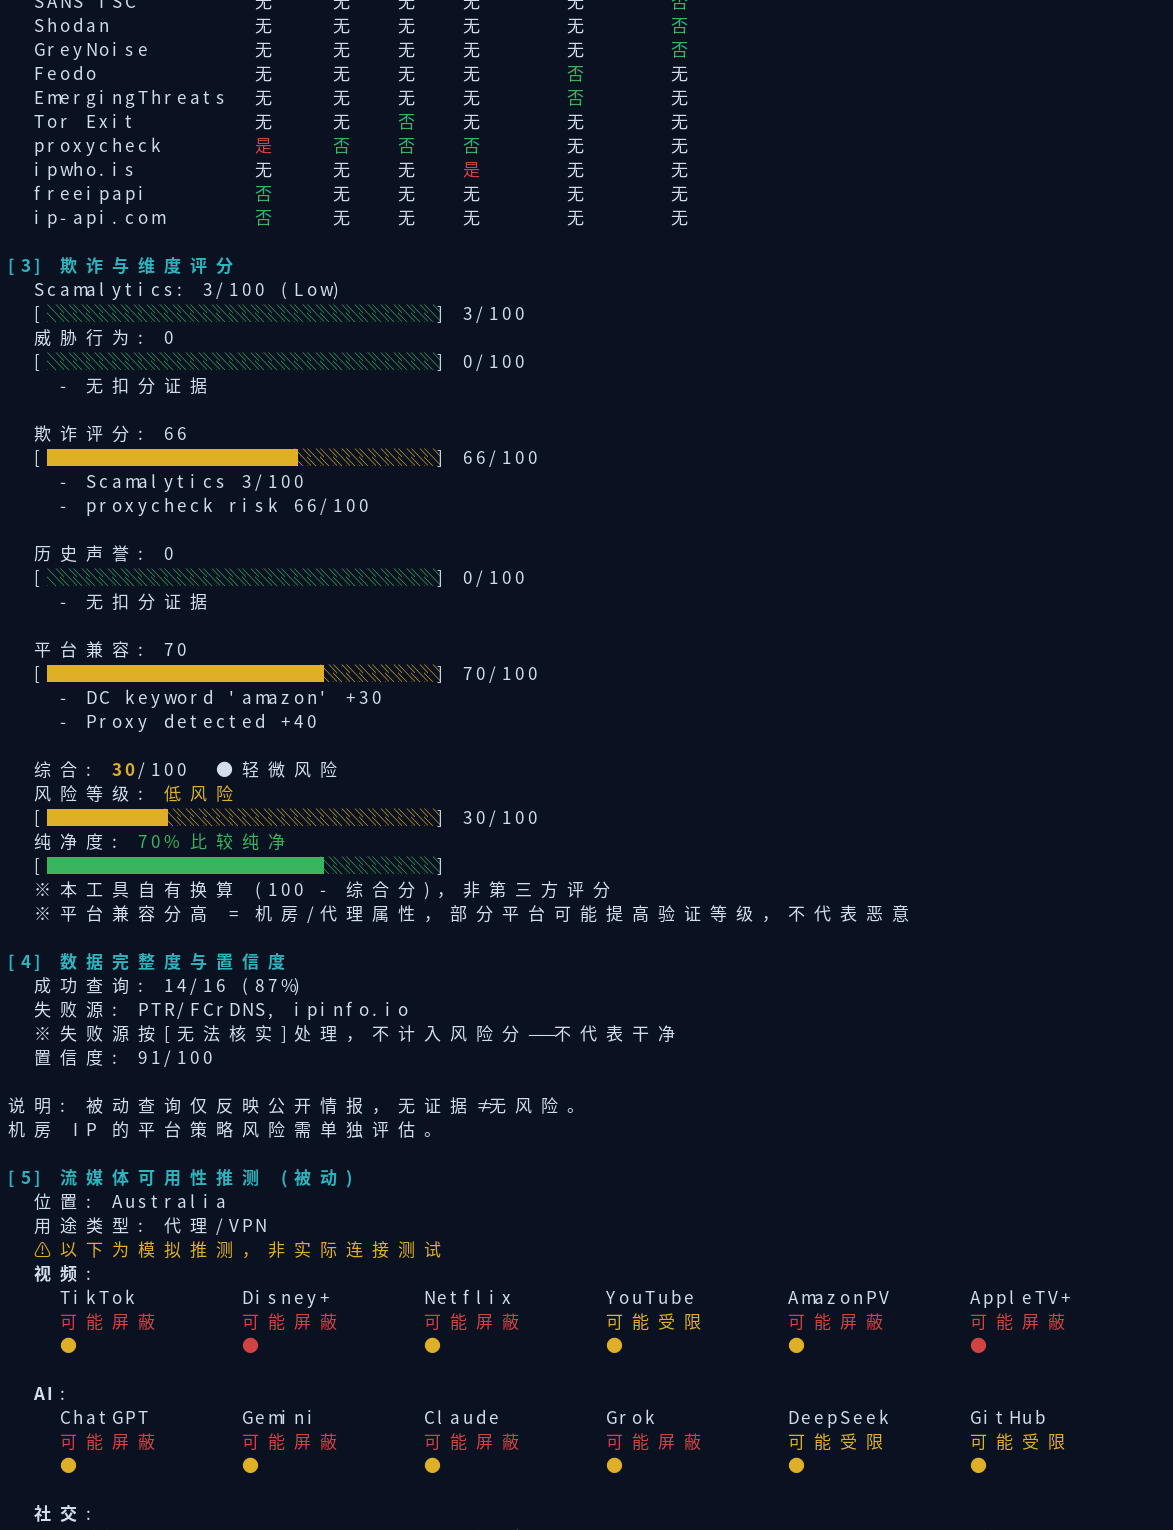
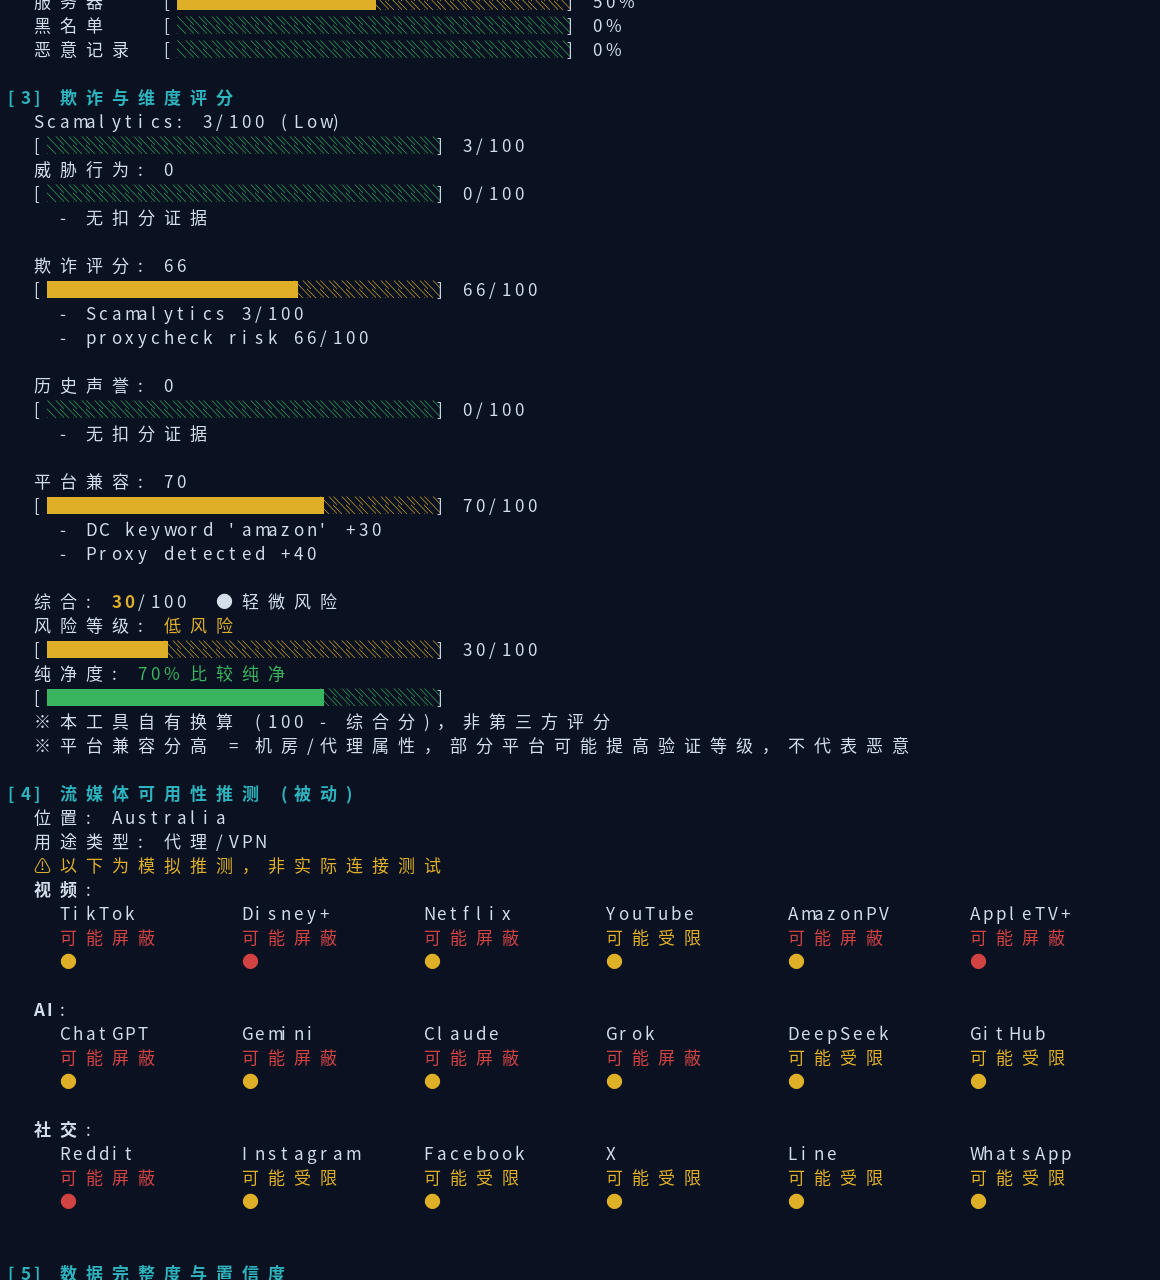
update

diff --git a/acheck.py b/acheck.py
@@ -1,6 +1,6 @@
 #!/usr/bin/env python3
 """
-IP 信誉检测 v4.9.0 — 全量修复与并发优化公开版 (零 API Key 依赖)
+IP 信誉检测 v4.10.0 — 全量修复与并发优化公开版 (零 API Key 依赖)
 
 被动模式: 仅凭 IP 地址做公开情报查询，不发起任何指向该 IP 的主动连接。
   适用: 评估尚未启用的候选 IP (如 AWS EIP)。
@@ -55,7 +55,7 @@ for _s in (sys.stdout, sys.stderr, sys.stdin):
     except Exception:
         pass
 
-VERSION = "4.9.0"
+VERSION = "4.10.0"
 
 
 def _init_console():
@@ -1956,7 +1956,7 @@ class IPInfo(Provider):
 
     def check(self, ip):
         ok, raw = http_get(f"https://ipinfo.io/{ip}/json",
-                           headers={"User-Agent": "A-Check/4.9.0 (+https://github.com/alariclin/A-Check)"},
+                           headers={"User-Agent": "A-Check/4.10.0 (+https://github.com/alariclin/A-Check)"},
                            use_cache=False)
         if not ok:
             return {"ok": False, "err": raw}
@@ -2287,7 +2287,7 @@ def _build_unified_profile(s):
 
 SCORING_RULES = {
     "zh": """
-评分规则 (v4.9.0 免 Key 公开版):
+评分规则 (v4.10.0 免 Key 公开版):
   [威胁行为 0-100] 实际恶意行为证据
     StopForumSpam 垃圾举报命中 (每次+3, 上限25)
     SANS ISC 蜜罐攻击记录 (5 + count//5, 上限25)
@@ -2309,7 +2309,7 @@ SCORING_RULES = {
   [纯净度] = 100 - 综合 (本工具自有换算，非第三方评分)
 """,
     "zh-TW": """
-評分規則 (v4.9.0 免 Key 公開版):
+評分規則 (v4.10.0 免 Key 公開版):
   [威脅行為 0-100] 實際惡意行為證據
     StopForumSpam 垃圾舉報命中 (每次+3, 上限25)
     SANS ISC 蜜罐攻擊記錄 (5 + count//5, 上限25)
@@ -2331,7 +2331,7 @@ SCORING_RULES = {
   [純淨度] = 100 - 綜合 (本工具自有換算，非第三方評分)
 """,
     "en": """
-Scoring rules (v4.9.0 Keyless Public Edition):
+Scoring rules (v4.10.0 Keyless Public Edition):
   [Threat 0-100] Evidence of malicious behavior
     StopForumSpam abuse hits (+3 each, max 25)
     SANS ISC honeypot attacks (5 + count//5, max 25)
@@ -2353,7 +2353,7 @@ Scoring rules (v4.9.0 Keyless Public Edition):
   [Purity] = 100 - Combined (own conversion, not third-party)
 """,
     "ja": """
-スコアリングルール (v4.9.0 キー不要公開版):
+スコアリングルール (v4.10.0 キー不要公開版):
   [脅威行為 0-100] 悪意ある活動の証拠
     StopForumSpam スパム報告 (+3/件, 最大25)
     SANS ISC ハニーポット攻撃記録 (5 + count//5, 最大25)
@@ -2375,7 +2375,7 @@ Scoring rules (v4.9.0 Keyless Public Edition):
   [純度] = 100 - 総合 (独自換算)
 """,
     "ru": """
-Правила оценки (v4.9.0 Публичная версия без ключей):
+Правила оценки (v4.10.0 Публичная версия без ключей):
   [Угрозы 0-100] Доказательства вредоносной активности
     StopForumSpam жалобы (+3 за каждую, макс. 25)
     SANS ISC атаки (5 + count//5, макс. 25)
@@ -2397,7 +2397,7 @@ Scoring rules (v4.9.0 Keyless Public Edition):
   [Чистота] = 100 - Итого
 """,
     "fa": """
-قوانین امتیازدهی (نسخه عمومی بدون کلید v4.9.0):
+قوانین امتیازدهی (نسخه عمومی بدون کلید v4.10.0):
   [رفتار تهدید 0-100] شواهد فعالیت مخرب
     StopForumSpam گزارش اسپم (+3 هر مورد، حداکثر 25)
     SANS ISC حملات ثبتشده (5 + count//5، حداکثر 25)
@@ -3155,15 +3155,18 @@ def print_report(res, include_streaming_inference=True, sysinfo=None,
         _ind = " " * (_disp_width(_lbl) + 2)
         for _i, k in enumerate(_order):
             _loc, _names = _groups[k]
-            _who = ", ".join(_names)
             if _i == 0:
-                print(f"  {_lbl}: {_loc} ({_who})")
+                print(f"  {_lbl}: {_loc}")
             else:
-                print(f"  {_ind}{_loc} ({_who})")
+                print(f"  {_ind}{_loc}")
     else:
         print(f"  {T('no_loc_data')}")
     if pc.get("ok") and pc.get("range"):
         print(f"  {T('ip_range')}: {pc['range']}")
+
+    # 系统信息 (主动模式: 并入 [1], 位于 IP 类型属性之前)
+    if sysinfo:
+        print_system_info(sysinfo[0], sysinfo[1])
 
     # [1.5] 类型属性 (严禁篡改第三方原始判断)
     _section(T("sec_type"))
@@ -3197,10 +3200,6 @@ def print_report(res, include_streaming_inference=True, sysinfo=None,
         print("  " + _pad(T("usage_type"), 12) + "".join(cells))
     else:
         print(f"  {T('no_type_data')}")
-
-    # 系统信息 (主动模式: 并入 [1] 组尾, print_system_info 自带小标题)
-    if sysinfo:
-        print_system_info(sysinfo[0], sysinfo[1])
 
     # [2] 风险因子矩阵 (威胁情报与因子矩阵融合: 源为行, 因子为列, 细节作脚注)
     _section(T("sec_matrix"))
@@ -3274,39 +3273,17 @@ def print_report(res, include_streaming_inference=True, sysinfo=None,
             _hit(ia, bool(ia.get("proxy"))),
             _NA, _NA, _NA, _NA, _NA]),
     ]
+    # 按因子聚合为进度条: 占比 = 判「是」源数 / 有判定源数 (未覆盖/失败不计入)
     _factors = [T("f_proxy"), T("f_vpn"), T("f_tor"), T("f_server"),
                 T("f_blacklist"), T("f_malicious")]
-    _name_w = max(_disp_width(n) for n, _ in _rows) + 2
-    _cw = max(_disp_width(T("yes")), _disp_width(T("no")),
-              _disp_width(T("none")), 1)
-    _col_ws = [max(_disp_width(h), _cw) + 2 for h in _factors]
-    print("  " + " " * _name_w + "".join(
-        _pad(h, w) for h, w in zip(_factors, _col_ws)))
-    for _n, _cells in _rows:
-        print("  " + _pad(_n, _name_w) + "".join(
-            _pad(_cell(c), w) for c, w in zip(_cells, _col_ws)))
-
-    # 细节脚注 (仅命中/有附加信息时出现, 干净 IP 不占行)
-    if sf.get("ok") and sf.get("frequency", 0) > 0:
-        print(f"  {_c(C.dim, 'StopForumSpam: %d hits' % sf['frequency'])}")
-    if us.get("ok") and us.get("total", 0) > 0:
-        print(f"  {_c(C.dim, 'urlscan.io: %d malicious records' % us['total'])}")
-    if sa.get("ok") and sa.get("attack_count"):
-        print(f"  {_c(C.dim, 'SANS ISC: %s attacks' % sa['attack_count'])}")
-    if sh.get("ok"):
-        if sh.get("vulns"):
-            print(f"  {_c(C.red, 'Shodan: %d vulns: %s' % (len(sh['vulns']), ','.join(sh['vulns'][:3])))}")
-        if sh.get("tags"):
-            print(f"  {_c(C.yellow, 'Shodan: tags %s' % ','.join(sh['tags'][:3]))}")
-        if sh.get("ports"):
-            print(f"  {_c(C.dim, 'Shodan ports: %s' % sh['ports'])}")
-    if gn.get("ok") and (gn.get("noise") or gn.get("classification")):
-        _bits = []
-        if gn.get("classification"):
-            _bits.append(gn["classification"])
-        if gn.get("noise"):
-            _bits.append("noise")
-        print(f"  {_c(C.dim, 'GreyNoise: %s' % ', '.join(_bits))}")
+    _lw = max(_disp_width(f) for f in _factors) + 2
+    for _ci, _fname in enumerate(_factors):
+        _decided = [c[_ci] for _, c in _rows if c[_ci] in (True, False)]
+        if _decided:
+            _pct = round(100 * sum(1 for v in _decided if v) / len(_decided))
+            print(f"  {_pad(_fname, _lw)}[{_risk_bar(_pct)[0]}] {_pct}%")
+        else:
+            print(f"  {_pad(_fname, _lw)}[{_risk_bar(0)[0]}] {_c(C.dim, '—')}")
 
     # [4] 欺诈与维度评分 (Scamalytics + 四维 + 综合)
     _section(T("sec_fraud"))
@@ -3390,7 +3367,7 @@ def get_egress_ip():
     ]
     for url in sources:
         try:
-            _ua = {"User-Agent": "A-Check/4.9.0 (+https://github.com/alariclin/A-Check)"} if "ipinfo.io" in url else {"User-Agent": UA_BROWSER}
+            _ua = {"User-Agent": "A-Check/4.10.0 (+https://github.com/alariclin/A-Check)"} if "ipinfo.io" in url else {"User-Agent": UA_BROWSER}
             req = urllib.request.Request(url, headers=_ua)
             with urllib.request.urlopen(req, timeout=6) as r:
                 raw = r.read(512).decode("utf-8", errors="replace").strip()

diff --git a/README.fa.md b/README.fa.md
@@ -5,7 +5,7 @@
 <p align="center">اعتبار IP · عیبیابی پروکسی · انتخاب دستهای گرهها — ابزار تکفایلی پایتون</p>
 
 <p align="center">
-  <img src="https://img.shields.io/badge/release-v4.9.0-1f883d" alt="release">
+  <img src="https://img.shields.io/badge/release-v4.10.0-1f883d" alt="release">
   <img src="https://img.shields.io/badge/python-3.8%2B-3776ab" alt="python">
   <img src="https://img.shields.io/badge/platform-macOS%20%7C%20Windows%20%7C%20Linux-8250df" alt="platform">
   <img src="https://img.shields.io/badge/license-MIT-d7781e" alt="license">
@@ -56,7 +56,7 @@ python3 acheck.py 8.8.8.8     # استعلام هر IP عمومی
 python3 acheck.py --active    # خودآزمایی
 ```
 
-بستههای macOS / Windows / Linux در صفحه [Releases](https://github.com/alariclin/A-Check/releases) هستند (`A-Check-v4.9.0-mac.zip` / `A-Check-v4.9.0-windows.zip` / `A-Check-v4.9.0-linux.zip`) — از حالت فشرده خارج کنید و `run.command` / `run.bat` / `run.sh` را اجرا کنید.
+بستههای macOS / Windows / Linux در صفحه [Releases](https://github.com/alariclin/A-Check/releases) هستند (`A-Check-v4.10.0-mac.zip` / `A-Check-v4.10.0-windows.zip` / `A-Check-v4.10.0-linux.zip`) — از حالت فشرده خارج کنید و `run.command` / `run.bat` / `run.sh` را اجرا کنید.
 
 ## روش استفاده
 

diff --git a/README.ru.md b/README.ru.md
@@ -5,7 +5,7 @@
 <p align="center">Репутация IP · диагностика прокси · пакетный выбор узлов — однофайловый чекер на Python</p>
 
 <p align="center">
-  <img src="https://img.shields.io/badge/release-v4.9.0-1f883d" alt="release">
+  <img src="https://img.shields.io/badge/release-v4.10.0-1f883d" alt="release">
   <img src="https://img.shields.io/badge/python-3.8%2B-3776ab" alt="python">
   <img src="https://img.shields.io/badge/platform-macOS%20%7C%20Windows%20%7C%20Linux-8250df" alt="platform">
   <img src="https://img.shields.io/badge/license-MIT-d7781e" alt="license">
@@ -56,7 +56,7 @@ python3 acheck.py 8.8.8.8     # запрос любого публичного I
 python3 acheck.py --active    # самопроверка
 ```
 
-Пакеты для macOS / Windows / Linux — на странице [Releases](https://github.com/alariclin/A-Check/releases) (`A-Check-v4.9.0-mac.zip` / `A-Check-v4.9.0-windows.zip` / `A-Check-v4.9.0-linux.zip`): распаковать и запустить `run.command` / `run.bat` / `run.sh`.
+Пакеты для macOS / Windows / Linux — на странице [Releases](https://github.com/alariclin/A-Check/releases) (`A-Check-v4.10.0-mac.zip` / `A-Check-v4.10.0-windows.zip` / `A-Check-v4.10.0-linux.zip`): распаковать и запустить `run.command` / `run.bat` / `run.sh`.
 
 ## Использование
 

diff --git a/README.ja.md b/README.ja.md
@@ -5,7 +5,7 @@
 <p align="center">IPレピュテーション · プロキシ診断 · ノード一括選別 — 単一ファイルのPythonチェッカー</p>
 
 <p align="center">
-  <img src="https://img.shields.io/badge/release-v4.9.0-1f883d" alt="release">
+  <img src="https://img.shields.io/badge/release-v4.10.0-1f883d" alt="release">
   <img src="https://img.shields.io/badge/python-3.8%2B-3776ab" alt="python">
   <img src="https://img.shields.io/badge/platform-macOS%20%7C%20Windows%20%7C%20Linux-8250df" alt="platform">
   <img src="https://img.shields.io/badge/license-MIT-d7781e" alt="license">
@@ -56,7 +56,7 @@ python3 acheck.py 8.8.8.8     # 任意のIPを照会
 python3 acheck.py --active    # セルフチェック
 ```
 
-macOS / Windows / Linux 用パッケージは [Releases](https://github.com/alariclin/A-Check/releases) ページ（`A-Check-v4.9.0-mac.zip` / `A-Check-v4.9.0-windows.zip` / `A-Check-v4.9.0-linux.zip`）から。解凍して `run.command` / `run.bat` / `run.sh` を実行してください。
+macOS / Windows / Linux 用パッケージは [Releases](https://github.com/alariclin/A-Check/releases) ページ（`A-Check-v4.10.0-mac.zip` / `A-Check-v4.10.0-windows.zip` / `A-Check-v4.10.0-linux.zip`）から。解凍して `run.command` / `run.bat` / `run.sh` を実行してください。
 
 ## 使い方
 

diff --git a/README.zh-TW.md b/README.zh-TW.md
@@ -5,7 +5,7 @@
 <p align="center">IP 純淨度 · 代理診斷 · 批量節點優選 — 純 Python 單文件檢測工具</p>
 
 <p align="center">
-  <img src="https://img.shields.io/badge/release-v4.9.0-1f883d" alt="release">
+  <img src="https://img.shields.io/badge/release-v4.10.0-1f883d" alt="release">
   <img src="https://img.shields.io/badge/python-3.8%2B-3776ab" alt="python">
   <img src="https://img.shields.io/badge/platform-macOS%20%7C%20Windows%20%7C%20Linux-8250df" alt="platform">
   <img src="https://img.shields.io/badge/license-MIT-d7781e" alt="license">
@@ -56,7 +56,7 @@ python3 acheck.py 8.8.8.8     # 查任意公網 IP
 python3 acheck.py --active    # 本機自檢
 ```
 
-macOS / Windows / Linux 安裝包在 [Releases](https://github.com/alariclin/A-Check/releases) 頁下載（`A-Check-v4.9.0-mac.zip` / `A-Check-v4.9.0-windows.zip` / `A-Check-v4.9.0-linux.zip`），解壓後運行 `run.command` / `run.bat` / `run.sh` 即可。
+macOS / Windows / Linux 安裝包在 [Releases](https://github.com/alariclin/A-Check/releases) 頁下載（`A-Check-v4.10.0-mac.zip` / `A-Check-v4.10.0-windows.zip` / `A-Check-v4.10.0-linux.zip`），解壓後運行 `run.command` / `run.bat` / `run.sh` 即可。
 
 ## 使用方法
 

diff --git a/README.zh.md b/README.zh.md
@@ -5,7 +5,7 @@
 <p align="center">IP 纯净度 · 代理诊断 · 批量节点优选 — 纯 Python 单文件检测工具</p>
 
 <p align="center">
-  <img src="https://img.shields.io/badge/release-v4.9.0-1f883d" alt="release">
+  <img src="https://img.shields.io/badge/release-v4.10.0-1f883d" alt="release">
   <img src="https://img.shields.io/badge/python-3.8%2B-3776ab" alt="python">
   <img src="https://img.shields.io/badge/platform-macOS%20%7C%20Windows%20%7C%20Linux-8250df" alt="platform">
   <img src="https://img.shields.io/badge/license-MIT-d7781e" alt="license">
@@ -56,7 +56,7 @@ python3 acheck.py 8.8.8.8     # 查任意公网 IP
 python3 acheck.py --active    # 本机自检
 ```
 
-macOS / Windows / Linux 安装包在 [Releases](https://github.com/alariclin/A-Check/releases) 页下载（`A-Check-v4.9.0-mac.zip` / `A-Check-v4.9.0-windows.zip` / `A-Check-v4.9.0-linux.zip`），解压后运行 `run.command` / `run.bat` / `run.sh` 即可。
+macOS / Windows / Linux 安装包在 [Releases](https://github.com/alariclin/A-Check/releases) 页下载（`A-Check-v4.10.0-mac.zip` / `A-Check-v4.10.0-windows.zip` / `A-Check-v4.10.0-linux.zip`），解压后运行 `run.command` / `run.bat` / `run.sh` 即可。
 
 ## 使用方法
 

diff --git a/README.en.md b/README.en.md
@@ -5,7 +5,7 @@
 <p align="center">IP reputation · proxy diagnostics · batch node picking — a single-file Python checker</p>
 
 <p align="center">
-  <img src="https://img.shields.io/badge/release-v4.9.0-1f883d" alt="release">
+  <img src="https://img.shields.io/badge/release-v4.10.0-1f883d" alt="release">
   <img src="https://img.shields.io/badge/python-3.8%2B-3776ab" alt="python">
   <img src="https://img.shields.io/badge/platform-macOS%20%7C%20Windows%20%7C%20Linux-8250df" alt="platform">
   <img src="https://img.shields.io/badge/license-MIT-d7781e" alt="license">
@@ -56,7 +56,7 @@ python3 acheck.py 8.8.8.8     # query any public IP
 python3 acheck.py --active    # self-check
 ```
 
-Packages for macOS / Windows / Linux are on the [Releases](https://github.com/alariclin/A-Check/releases) page (`A-Check-v4.9.0-mac.zip` / `A-Check-v4.9.0-windows.zip` / `A-Check-v4.9.0-linux.zip`) — unzip and run `run.command` / `run.bat` / `run.sh`.
+Packages for macOS / Windows / Linux are on the [Releases](https://github.com/alariclin/A-Check/releases) page (`A-Check-v4.10.0-mac.zip` / `A-Check-v4.10.0-windows.zip` / `A-Check-v4.10.0-linux.zip`) — unzip and run `run.command` / `run.bat` / `run.sh`.
 
 ## Usage
 

diff --git a/README.md b/README.md
@@ -5,7 +5,7 @@
 <p align="center">IP reputation · proxy diagnostics · batch node picking — a single-file Python checker</p>
 
 <p align="center">
-  <img src="https://img.shields.io/badge/release-v4.9.0-1f883d" alt="release">
+  <img src="https://img.shields.io/badge/release-v4.10.0-1f883d" alt="release">
   <img src="https://img.shields.io/badge/python-3.8%2B-3776ab" alt="python">
   <img src="https://img.shields.io/badge/platform-macOS%20%7C%20Windows%20%7C%20Linux-8250df" alt="platform">
   <img src="https://img.shields.io/badge/license-MIT-d7781e" alt="license">
@@ -56,7 +56,7 @@ python3 acheck.py 8.8.8.8     # query any public IP
 python3 acheck.py --active    # self-check
 ```
 
-Packages for macOS / Windows / Linux are on the [Releases](https://github.com/alariclin/A-Check/releases) page (`A-Check-v4.9.0-mac.zip` / `A-Check-v4.9.0-windows.zip` / `A-Check-v4.9.0-linux.zip`) — unzip and run `run.command` / `run.bat` / `run.sh`.
+Packages for macOS / Windows / Linux are on the [Releases](https://github.com/alariclin/A-Check/releases) page (`A-Check-v4.10.0-mac.zip` / `A-Check-v4.10.0-windows.zip` / `A-Check-v4.10.0-linux.zip`) — unzip and run `run.command` / `run.bat` / `run.sh`.
 
 ## Usage
 
